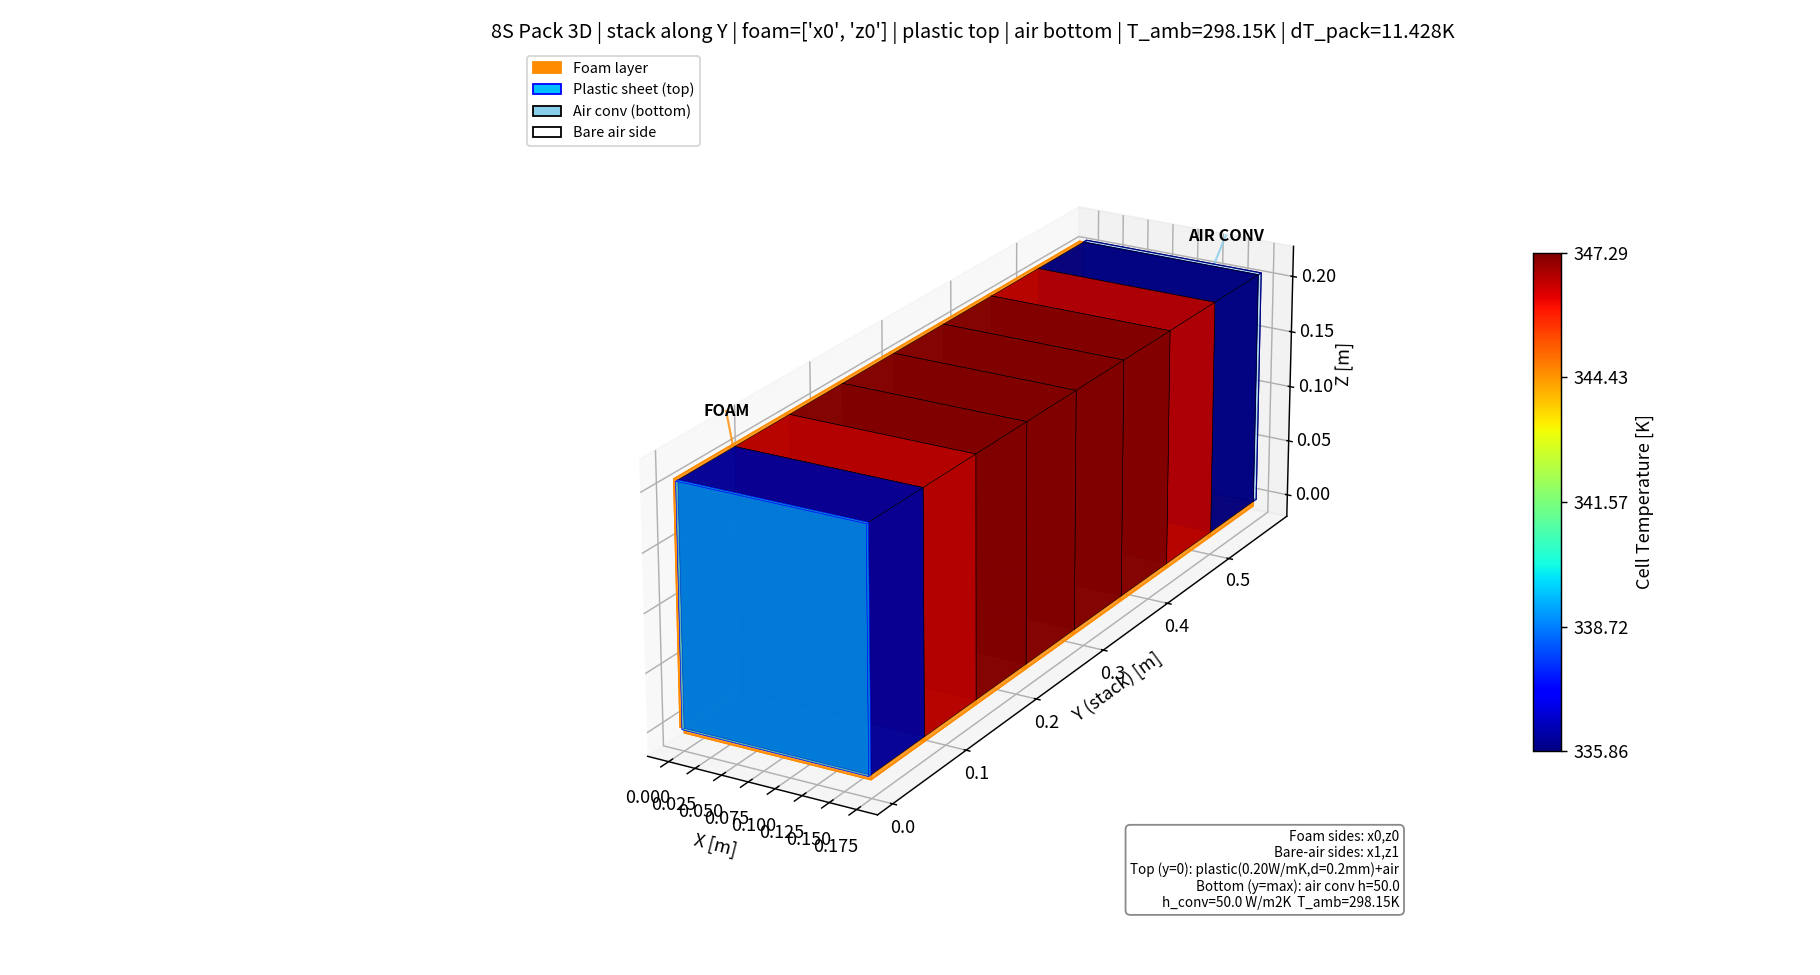
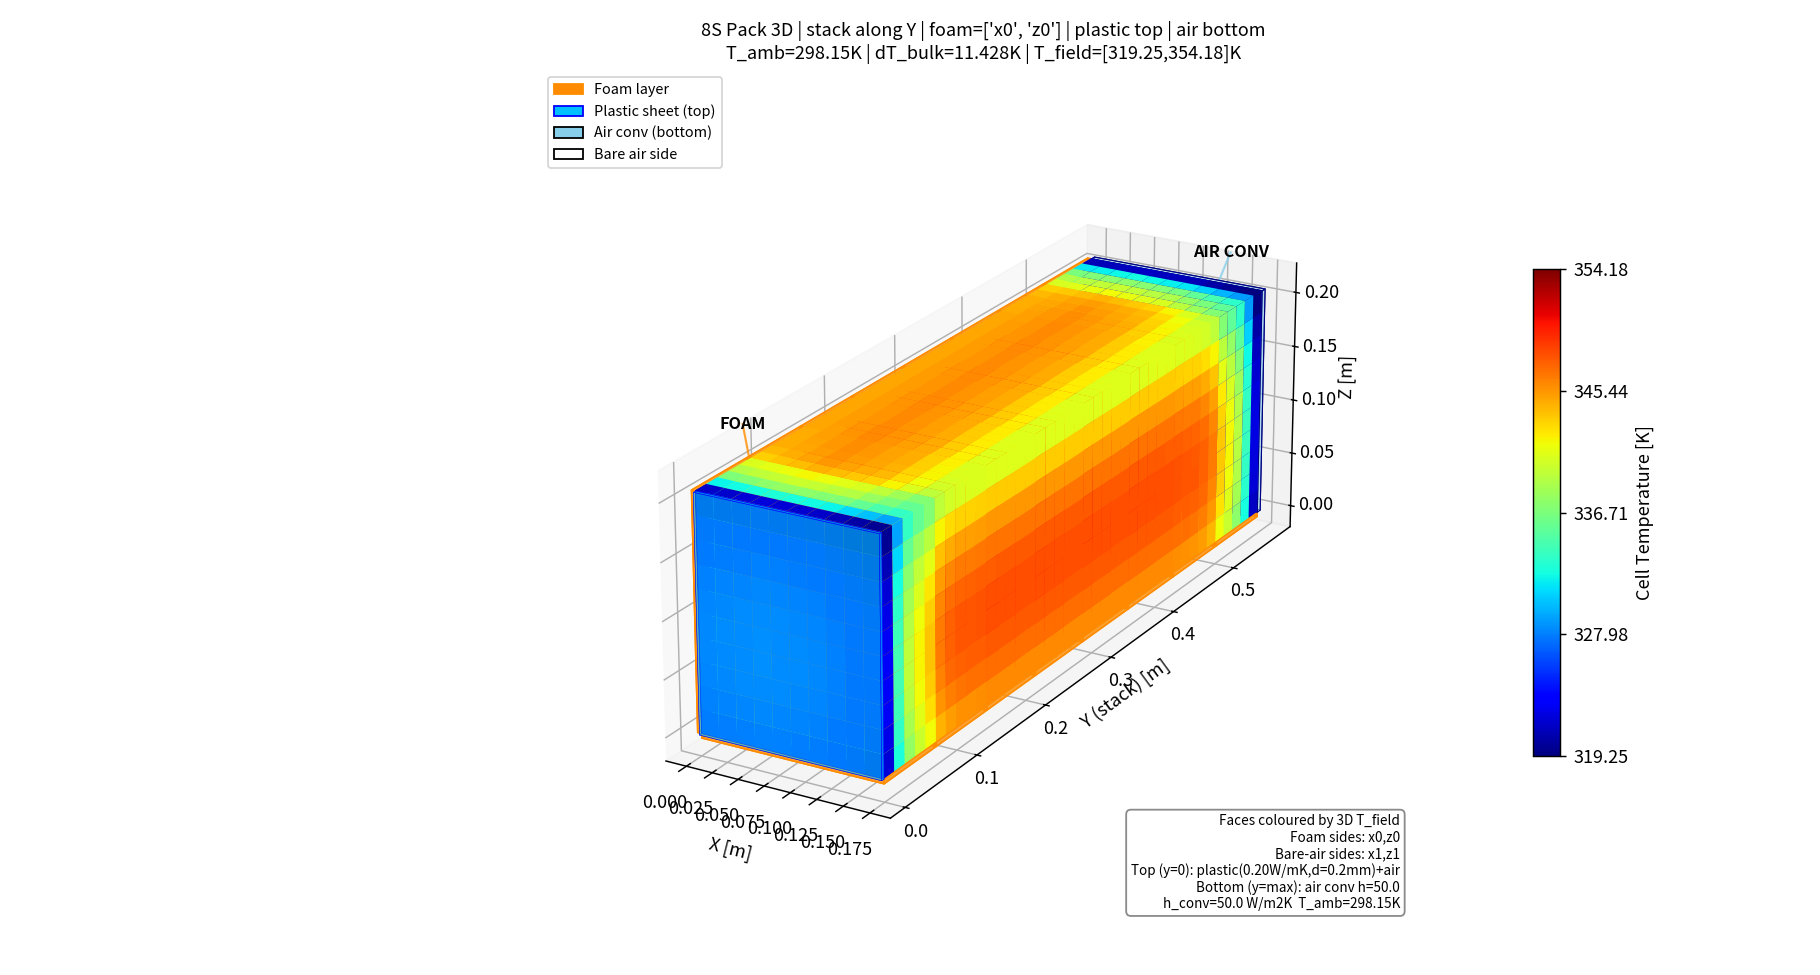
feat: plot_3d_pack now colours each cell face by the 3D T_field
- Shows internal X/Z/Y temperature gradients instead of single bulk colour

- Foam-insulated faces appear warmer than bare-air faces

- Title reports both bulk dT and full T_field range

- BC box notes 'Faces coloured by 3D T_field'

diff --git a/ecm_pack/thermal3d_stack.py b/ecm_pack/thermal3d_stack.py
@@ -373,10 +373,12 @@ class StackThermal3D:
                      title=None, save_path=None, dpi=130):
         """Draw a true 3D rendering of the whole 1xN stack.
 
-        Shows each cell as a solid block coloured by bulk temperature, foam pads
-        on the faces listed in ``foam_faces``, a plastic sheet on the top face
-        (y=0), and an adiabatic marker on the bottom face (y=n*Ly).
-        All labels are ASCII-only to avoid encoding issues.
+        Each cell's six faces are coloured by the local 3D temperature
+        field (so internal gradients -- e.g. a foam face running hotter
+        than the bare-air face -- are visible). Foam pads on the faces
+        listed in ``foam_faces``, a plastic sheet on the top face (y=0),
+        and an air-convection / adiabatic marker on the bottom face
+        (y=n*Ly). All labels are ASCII-only to avoid encoding issues.
         """
         from mpl_toolkits.mplot3d.art3d import Poly3DCollection, Line3DCollection
         import matplotlib.pyplot as plt
@@ -391,9 +393,13 @@ class StackThermal3D:
         Lx, Ly, Lz = self.Lx, self.Ly, self.Lz
         n = self.n_cells
 
-        # temperature -> colour mapping (use a copy to avoid surprise updates)
-        T = np.asarray(self.T, dtype=float).copy()
-        Tmin, Tmax = float(T.min()), float(T.max())
+        # temperature -> colour mapping
+        # use the FULL 3D field so internal gradients (e.g. the foam
+        # face being hotter than the bare-air face) are visible
+        from scipy.ndimage import zoom
+        Tfield = self.T_field.reshape(self.NX, self.NY, self.NZ)
+        T = np.asarray(self.T, dtype=float).copy()   # bulk, for title dT
+        Tmin, Tmax = float(Tfield.min()), float(Tfield.max())
         norm = plt.Normalize(Tmin, Tmax)
         sm = plt.cm.ScalarMappable(norm=norm, cmap=cmap)
         sm.set_array([])
@@ -414,30 +420,71 @@ class StackThermal3D:
                                  edgecolors=edgecolor,
                                  linewidths=lw, alpha=alpha))
 
-        # ---- cell blocks ----
+        # ---- cell blocks: colour each face by the 3D field (shows gradients) ----
+        ny = self.ny
+        nxv, nzv = 10, 10   # visual refinement of the cross-section grid
+
+        def block_faces(y0, y1, Tblk):
+            # Tblk shape (NX, ny, NZ); zoom X->nxv, Z->nzv, keep Y
+            Tz = zoom(Tblk.astype(float),
+                        (nxv / self.NX, 1.0, nzv / self.NZ), order=1)
+            polys, cols = [], []
+            dx = Lx / nxv
+            dz = Lz / nzv
+            dy = (y1 - y0) / ny
+            # X faces (x=0 and x=Lx): grid over (y, z)
+            for xi, xpos in ((0, 0.0), (nxv - 1, Lx)):
+                for a in range(ny):
+                    for b in range(nzv):
+                        yy0 = y0 + a * dy
+                        yy1 = y0 + (a + 1) * dy
+                        zz0 = b * dz
+                        zz1 = (b + 1) * dz
+                        polys.append([
+                            [xpos, yy0, zz0], [xpos, yy1, zz0],
+                            [xpos, yy1, zz1], [xpos, yy0, zz1],
+                        ])
+                        cols.append(Tz[xi, a, b])
+            # Z faces (z=0 and z=Lz): grid over (x, y)
+            for zi, zpos in ((0, 0.0), (nzv - 1, Lz)):
+                for c2 in range(nxv):
+                    for a in range(ny):
+                        xx0 = c2 * dx
+                        xx1 = (c2 + 1) * dx
+                        yy0 = y0 + a * dy
+                        yy1 = y0 + (a + 1) * dy
+                        polys.append([
+                            [xx0, yy0, zpos], [xx1, yy0, zpos],
+                            [xx1, yy1, zpos], [xx0, yy1, zpos],
+                        ])
+                        cols.append(Tz[c2, a, zi])
+            # Y faces (top y0 and bottom y1): grid over (x, z)
+            for yi, ypos in ((0, y0), (ny - 1, y1)):
+                for c2 in range(nxv):
+                    for b in range(nzv):
+                        xx0 = c2 * dx
+                        xx1 = (c2 + 1) * dx
+                        zz0 = b * dz
+                        zz1 = (b + 1) * dz
+                        polys.append([
+                            [xx0, ypos, zz0], [xx1, ypos, zz0],
+                            [xx1, ypos, zz1], [xx0, ypos, zz1],
+                        ])
+                        cols.append(Tz[c2, yi, b])
+            return polys, cols
+
         for c in range(n):
             y0 = c * Ly
             y1 = y0 + Ly
-            x0, x1 = 0.0, Lx
-            z0, z1 = 0.0, Lz
-            color = sm.to_rgba(T[c])
-
-            v = [
-                [x0, y0, z0], [x1, y0, z0], [x1, y1, z0], [x0, y1, z0],
-                [x0, y0, z1], [x1, y0, z1], [x1, y1, z1], [x0, y1, z1],
-            ]
-            faces = [
-                [v[0], v[1], v[2], v[3]],  # z = z0
-                [v[4], v[5], v[6], v[7]],  # z = z1
-                [v[0], v[1], v[5], v[4]],  # y = y0  (top)
-                [v[2], v[3], v[7], v[6]],  # y = y1  (bottom)
-                [v[0], v[3], v[7], v[4]],  # x = x0
-                [v[1], v[2], v[6], v[5]],  # x = x1
-            ]
-            for f in faces:
-                add_face(f, color)
-            # cell label on top face (y=0), black text for readability
-            ax.text(Lx * 0.5, y0 + 0.002, Lz * 0.5,
+            j0 = c * ny
+            Tblk = Tfield[:, j0:j0 + ny, :]
+            polys, cols = block_faces(y0, y1, Tblk)
+            fc = sm.to_rgba(np.asarray(cols))
+            ax.add_collection3d(
+                Poly3DCollection(polys, facecolors=fc,
+                                 edgecolors=fc, linewidths=0.0, alpha=1.0))
+            # cell label on top-face centre
+            ax.text(Lx * 0.5, y0 + 0.001, Lz * 0.5,
                     f"bat{c + 1}", color="black", fontsize=8,
                     ha="center", va="center", fontweight="bold")
 
@@ -641,6 +688,7 @@ class StackThermal3D:
         air_faces = sorted({"x0", "x1", "z0", "z1"} - set(self.foam_faces))
         air_str = ",".join(air_faces) if air_faces else "none"
         bc_text = (
+            f"Faces coloured by 3D T_field\n"
             f"Foam sides: {foam_str}\n"
             f"Bare-air sides: {air_str}\n"
             f"Top (y=0): plastic({self.k_top:.2f}W/mK,d={self.d_top*1e3:.1f}mm)+air\n"
@@ -657,12 +705,14 @@ class StackThermal3D:
         if title is None:
             bot_word = ("air bottom" if self.h_bottom > 0.0
                          else "adiabatic bottom")
+            dT_bulk = float(np.max(T) - np.min(T))
             title = (
                 f"8S Pack 3D | stack along Y | foam={sorted(self.foam_faces)} | "
-                f"plastic top | {bot_word} | T_amb={self.T_amb:.2f}K | "
-                f"dT_pack={Tmax - Tmin:.3f}K"
+                f"plastic top | {bot_word}\n"
+                f"T_amb={self.T_amb:.2f}K | dT_bulk={dT_bulk:.3f}K | "
+                f"T_field=[{Tmin:.2f},{Tmax:.2f}]K"
             )
-        ax.set_title(title, fontsize=11)
+        ax.set_title(title, fontsize=10)
 
         fig.tight_layout()
         if save_path:
